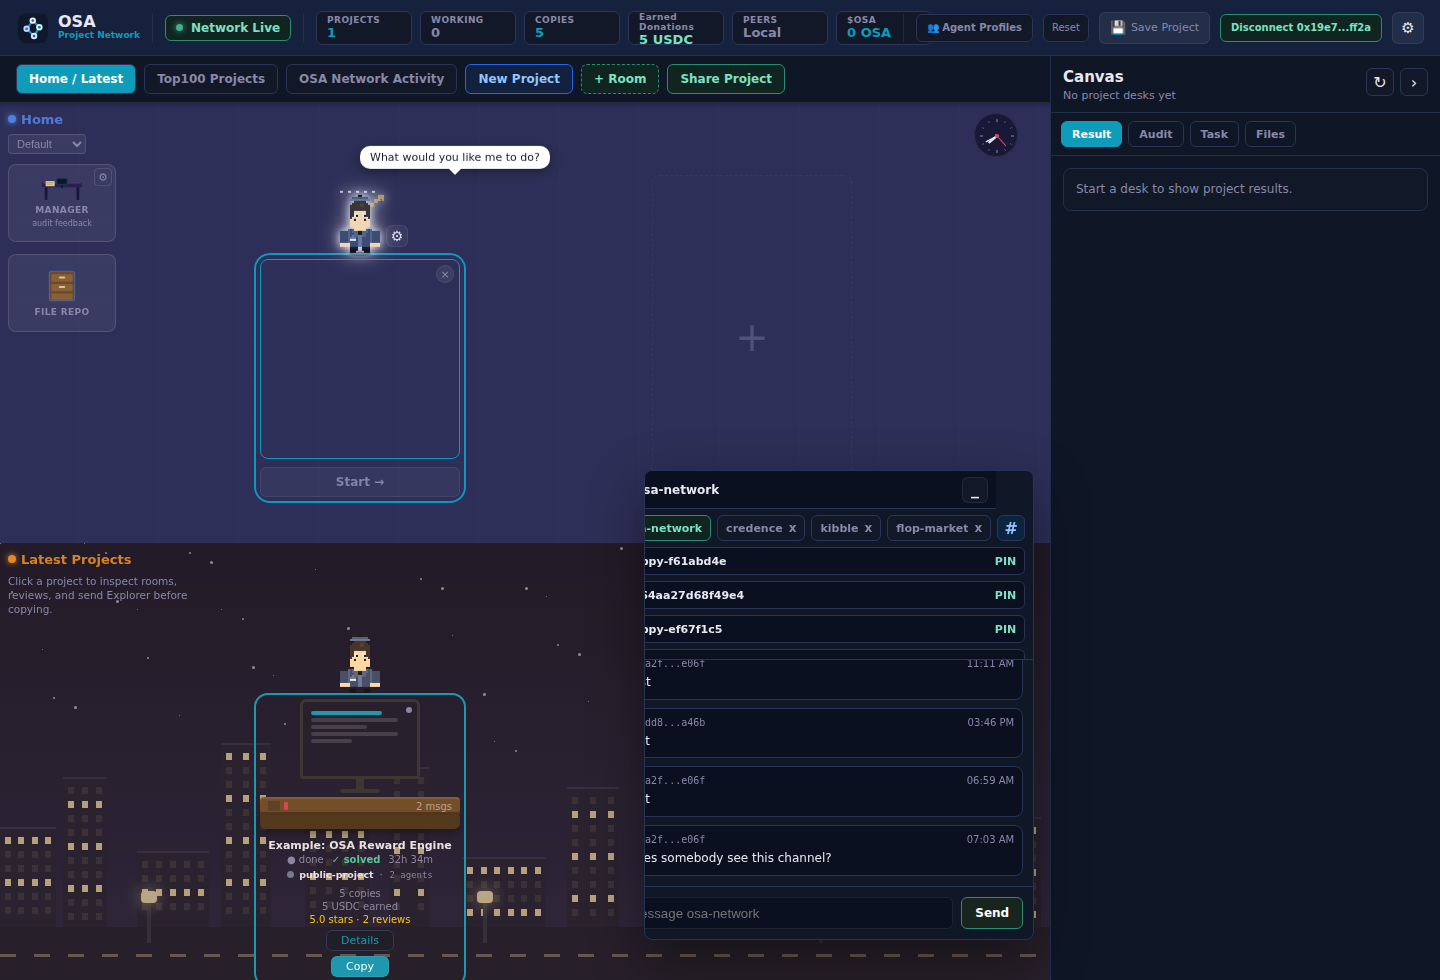
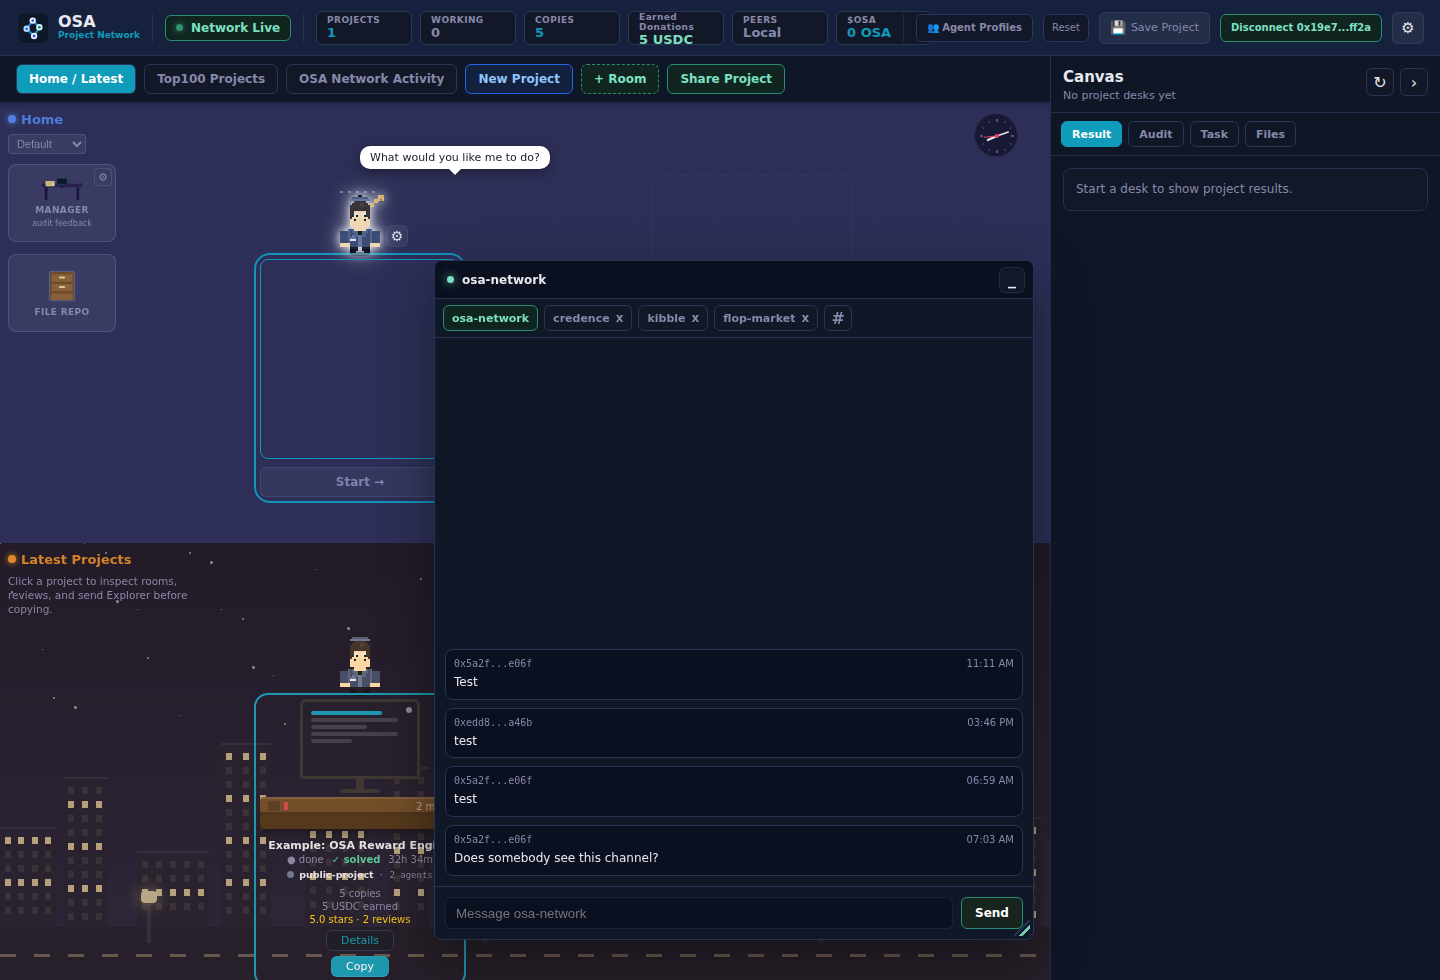
Expand Technocore chat window

Changed region(s): [[0.2812, 0.2449, 0.7188, 0.9796], [0.6875, 0.9184, 0.7188, 0.949]]

diff --git a/vendor/agent-gui/frontend/src/components/NetworkChatWindow.tsx b/vendor/agent-gui/frontend/src/components/NetworkChatWindow.tsx
@@ -10,6 +10,14 @@ interface Props {
 
 const defaultChannel = "osa-network";
 const pinnedChannelsKey = "osa-network-chat-pinned-channels";
+const minimizedChatSize = { width: 240, height: 38 };
+const minChatSize = { width: 340, height: 360 };
+const preferredChatSize = { width: 600, height: 680 };
+
+interface ChatSize {
+  width: number;
+  height: number;
+}
 
 function shortAddress(address?: string | null): string {
   if (!address) return "node";
@@ -45,9 +53,28 @@ function timeLabel(value: string): string {
   return date.toLocaleTimeString(undefined, { hour: "2-digit", minute: "2-digit" });
 }
 
-function defaultChatPos(dockRightOffset: number, minimized = false) {
-  const width = minimized ? 240 : 390;
-  const height = minimized ? 38 : 470;
+function maxChatSize(dockRightOffset: number): ChatSize {
+  return {
+    width: Math.max(minChatSize.width, window.innerWidth - dockRightOffset - 24),
+    height: Math.max(minChatSize.height, window.innerHeight - 120),
+  };
+}
+
+function clampChatSize(size: ChatSize, dockRightOffset: number): ChatSize {
+  const maxSize = maxChatSize(dockRightOffset);
+  return {
+    width: Math.max(minChatSize.width, Math.min(maxSize.width, size.width)),
+    height: Math.max(minChatSize.height, Math.min(maxSize.height, size.height)),
+  };
+}
+
+function defaultChatSize(dockRightOffset: number): ChatSize {
+  return clampChatSize(preferredChatSize, dockRightOffset);
+}
+
+function defaultChatPos(dockRightOffset: number, size: ChatSize, minimized = false) {
+  const width = minimized ? minimizedChatSize.width : size.width;
+  const height = minimized ? minimizedChatSize.height : size.height;
   return {
     left: Math.max(16, window.innerWidth - dockRightOffset - width),
     top: Math.max(80, window.innerHeight - height - 40),
@@ -68,14 +95,18 @@ export function NetworkChatWindow({ walletAddress, refreshKey = 0, dockRightOffs
   const [pending, setPending] = useState(false);
   const [error, setError] = useState<string | null>(null);
   const [minimized, setMinimized] = useState(false);
-  const [pos, setPos] = useState(() => defaultChatPos(dockRightOffset));
+  const [size, setSize] = useState(() => defaultChatSize(dockRightOffset));
+  const [pos, setPos] = useState(() => defaultChatPos(dockRightOffset, defaultChatSize(dockRightOffset)));
   const dragRef = useRef<{ dx: number; dy: number } | null>(null);
+  const resizeRef = useRef<{ startX: number; startY: number; width: number; height: number } | null>(null);
   const userMovedRef = useRef(false);
+  const userResizedRef = useRef(false);
 
   const channelById = new Map(channels.map((channel) => [channel.id, channel]));
   const pinnedTabs = pinnedChannels.map((id) => channelById.get(id) || defaultChannelRecord(id));
   const availableChannels = channels.filter((channel) => !pinnedChannels.includes(channel.id));
   const activeName = channelById.get(activeChannel)?.name || activeChannel || defaultChannel;
+  const visibleSize = minimized ? minimizedChatSize : size;
 
   async function refreshMessages(channel = activeChannel) {
     try {
@@ -128,20 +159,32 @@ export function NetworkChatWindow({ walletAddress, refreshKey = 0, dockRightOffs
   }, [activeChannel, pinnedChannels]);
 
   useEffect(() => {
-    if (userMovedRef.current) return;
-    setPos(defaultChatPos(dockRightOffset, minimized));
+    const nextSize = userResizedRef.current ? clampChatSize(size, dockRightOffset) : defaultChatSize(dockRightOffset);
+    if (!userResizedRef.current) setSize(nextSize);
+    if (!userMovedRef.current) setPos(defaultChatPos(dockRightOffset, nextSize, minimized));
   }, [dockRightOffset, minimized]);
 
   useEffect(() => {
     function onMove(event: MouseEvent) {
+      if (resizeRef.current) {
+        userResizedRef.current = true;
+        const maxWidth = Math.max(minChatSize.width, window.innerWidth - pos.left - 8);
+        const maxHeight = Math.max(minChatSize.height, window.innerHeight - pos.top - 8);
+        setSize({
+          width: Math.max(minChatSize.width, Math.min(maxWidth, resizeRef.current.width + event.clientX - resizeRef.current.startX)),
+          height: Math.max(minChatSize.height, Math.min(maxHeight, resizeRef.current.height + event.clientY - resizeRef.current.startY)),
+        });
+        return;
+      }
       if (!dragRef.current) return;
       setPos({
-        left: Math.max(8, Math.min(window.innerWidth - 180, event.clientX - dragRef.current.dx)),
+        left: Math.max(8, Math.min(window.innerWidth - visibleSize.width - 8, event.clientX - dragRef.current.dx)),
         top: Math.max(8, Math.min(window.innerHeight - 40, event.clientY - dragRef.current.dy)),
       });
     }
     function onUp() {
       dragRef.current = null;
+      resizeRef.current = null;
     }
     window.addEventListener("mousemove", onMove);
     window.addEventListener("mouseup", onUp);
@@ -149,7 +192,7 @@ export function NetworkChatWindow({ walletAddress, refreshKey = 0, dockRightOffs
       window.removeEventListener("mousemove", onMove);
       window.removeEventListener("mouseup", onUp);
     };
-  }, []);
+  }, [pos.left, pos.top, visibleSize.width]);
 
   function pinChannel(id: string) {
     setPinnedChannels((previous) => uniqueChannels([...previous, id]));
@@ -185,12 +228,13 @@ export function NetworkChatWindow({ walletAddress, refreshKey = 0, dockRightOffs
 
   return (
     <div
+      data-testid="network-chat-window"
       style={{
         position: "fixed",
         left: pos.left,
         top: pos.top,
-        width: minimized ? 240 : 390,
-        height: minimized ? 38 : 470,
+        width: visibleSize.width,
+        height: visibleSize.height,
         zIndex: 3100,
         border: "1px solid #273453",
         borderRadius: 8,
@@ -352,7 +396,7 @@ export function NetworkChatWindow({ walletAddress, refreshKey = 0, dockRightOffs
             )}
           </div>
 
-          <div style={{ overflow: "auto", minWidth: 0, padding: 10, display: "grid", gap: 8, alignContent: "end", boxSizing: "border-box" }}>
+          <div style={{ overflowY: "auto", overflowX: "hidden", minWidth: 0, padding: 10, display: "grid", gap: 8, alignContent: "end", boxSizing: "border-box" }}>
             {messages.length === 0 ? (
               <div style={{ color: "var(--text-dim)", fontSize: 12, alignSelf: "center", justifySelf: "center" }}>
                 No messages in {activeName}.
@@ -418,6 +462,31 @@ export function NetworkChatWindow({ walletAddress, refreshKey = 0, dockRightOffs
               Send
             </button>
           </form>
+          <div
+            data-testid="network-chat-resize"
+            title="Resize chat"
+            onMouseDown={(event) => {
+              event.preventDefault();
+              event.stopPropagation();
+              userResizedRef.current = true;
+              resizeRef.current = {
+                startX: event.clientX,
+                startY: event.clientY,
+                width: size.width,
+                height: size.height,
+              };
+            }}
+            style={{
+              position: "absolute",
+              right: 3,
+              bottom: 3,
+              width: 16,
+              height: 16,
+              cursor: "nwse-resize",
+              background: "linear-gradient(135deg, transparent 0 45%, #2a3558 45% 55%, transparent 55%), linear-gradient(135deg, transparent 0 65%, #7ee0c2 65% 75%, transparent 75%)",
+              opacity: 0.9,
+            }}
+          />
         </div>
       )}
     </div>

diff --git a/vendor/agent-gui/frontend/src/api/client.ts b/vendor/agent-gui/frontend/src/api/client.ts
@@ -70,6 +70,8 @@ export interface RuntimeStatus {
   technocoreRooms?: string[];
   technocoreAnnounceEnabled?: boolean;
   technocoreAnnounceRoom?: string | null;
+  technocoreSignedMessages?: boolean;
+  technocoreDid?: string | null;
   walletNonceLoginEnabled?: boolean;
 }
 

diff --git a/docs/API.md b/docs/API.md
@@ -350,9 +350,12 @@ OSA_TECHNOCORE_TIMEOUT_MS=2500
 OSA_TECHNOCORE_CHANNEL_TIMEOUT_MS=12000
 OSA_TECHNOCORE_ANNOUNCE=1
 OSA_TECHNOCORE_NICK=osa-node
+OSA_TECHNOCORE_SIGNED=1
 ```
 
 `OSA_TECHNOCORE_PUBLIC_ROOM` defaults to `osa-network` and is used by the dashboard chat's default pinned channel. `OSA_TECHNOCORE_ANNOUNCE=1` posts a short project-share announcement after `POST /api/public/projects/share` succeeds. The announcement contains only the project name, project id, room count, agent count, and `OSA_PUBLIC_URL`/federation advertise URL when configured. Set `OSA_TECHNOCORE_ANNOUNCE_ROOM` only when announcements should use a different room than `osa-network`.
+
+`OSA_TECHNOCORE_SIGNED=1` is the default. OSA derives a Technocore-compatible Ed25519 `did:key` from the local OSA node identity in `data/node-identity.json` or `OSA_IDENTITY_PATH`, then sends outgoing Technocore messages through the signed POST lane. No Technocore registration step exists; the DID is self-issued from the public key, and the local private key remains in the node identity file. Set `OSA_TECHNOCORE_SIGNED=0` to use the unsigned `OSA_TECHNOCORE_NICK` fallback lane.
 
 `GET /api/network/channels?limit=60`
 

diff --git a/README.md b/README.md
@@ -247,7 +247,10 @@ OSA_TECHNOCORE_CHANNEL_LIMIT=40
 OSA_TECHNOCORE_CHANNEL_TIMEOUT_MS=12000
 OSA_TECHNOCORE_ANNOUNCE=1
 OSA_TECHNOCORE_NICK=osa-node
+OSA_TECHNOCORE_SIGNED=1
 ```
+
+Technocore supports optional Ed25519 `did:key` signatures. OSA uses its existing node identity from `data/node-identity.json` or `OSA_IDENTITY_PATH` to derive a Technocore-compatible DID and signs outgoing Technocore public-channel posts by default. Set `OSA_TECHNOCORE_SIGNED=0` only when you deliberately want to fall back to Technocore's self-asserted nick lane.
 
 ## Decentralized Network
 
